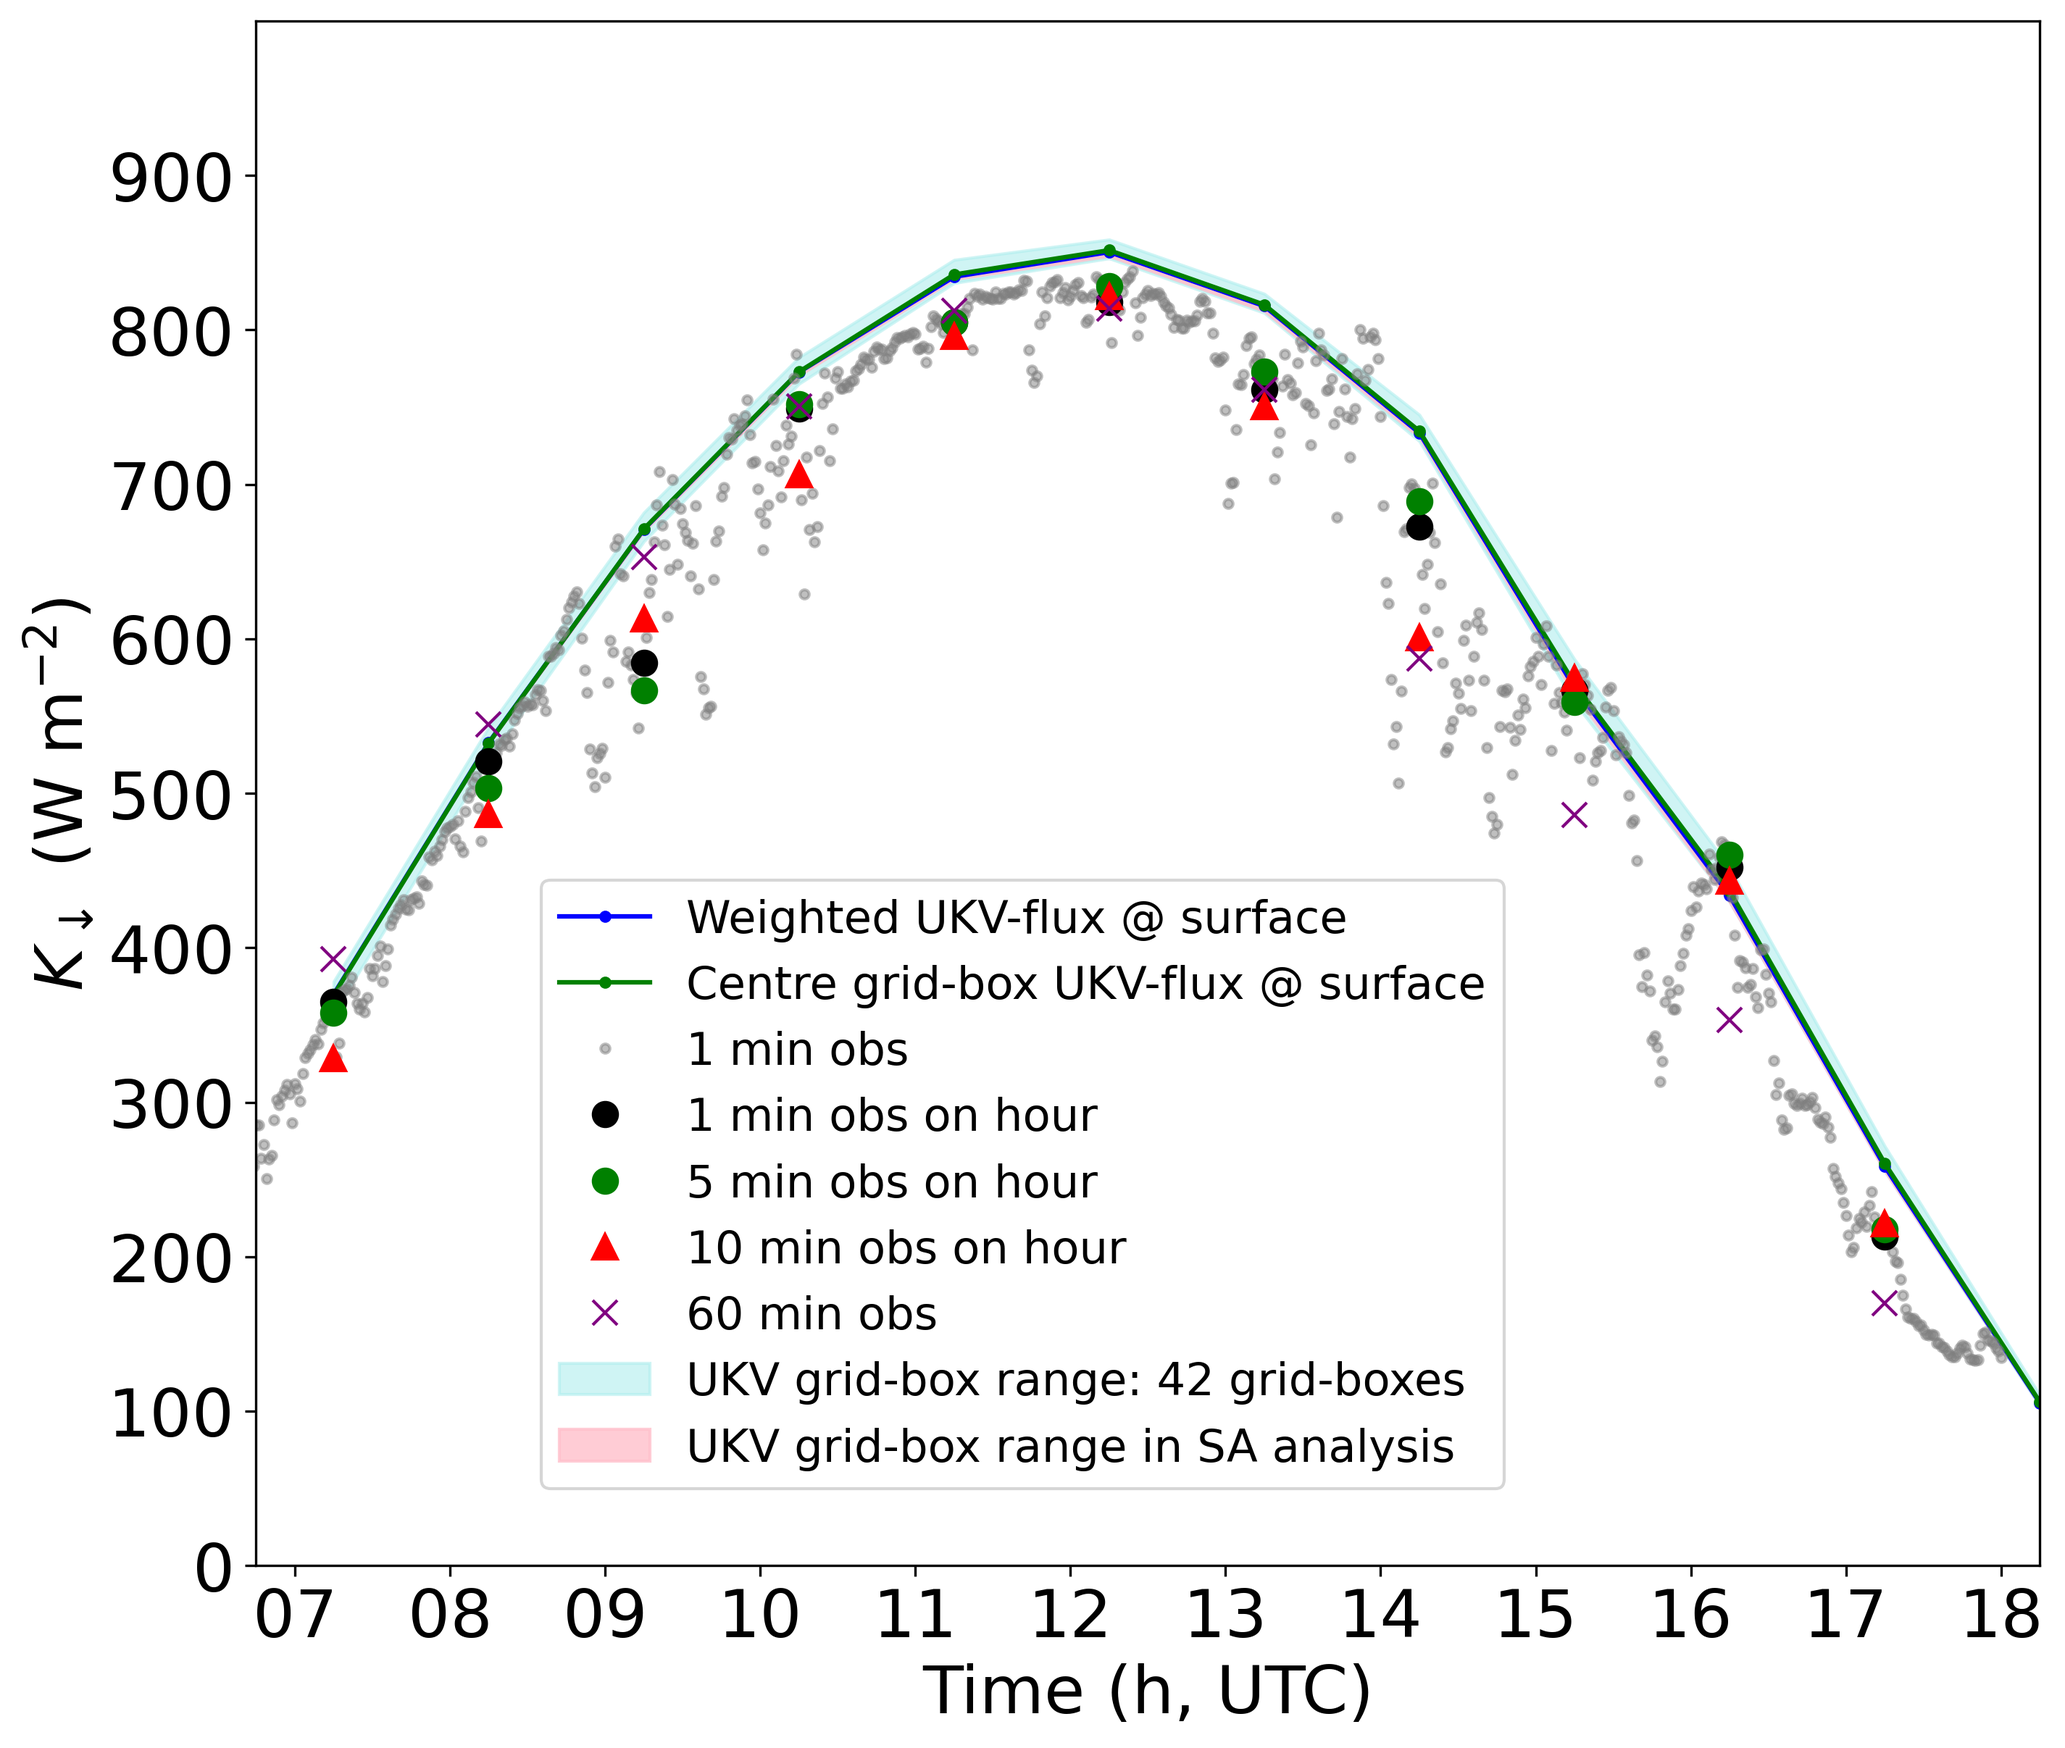
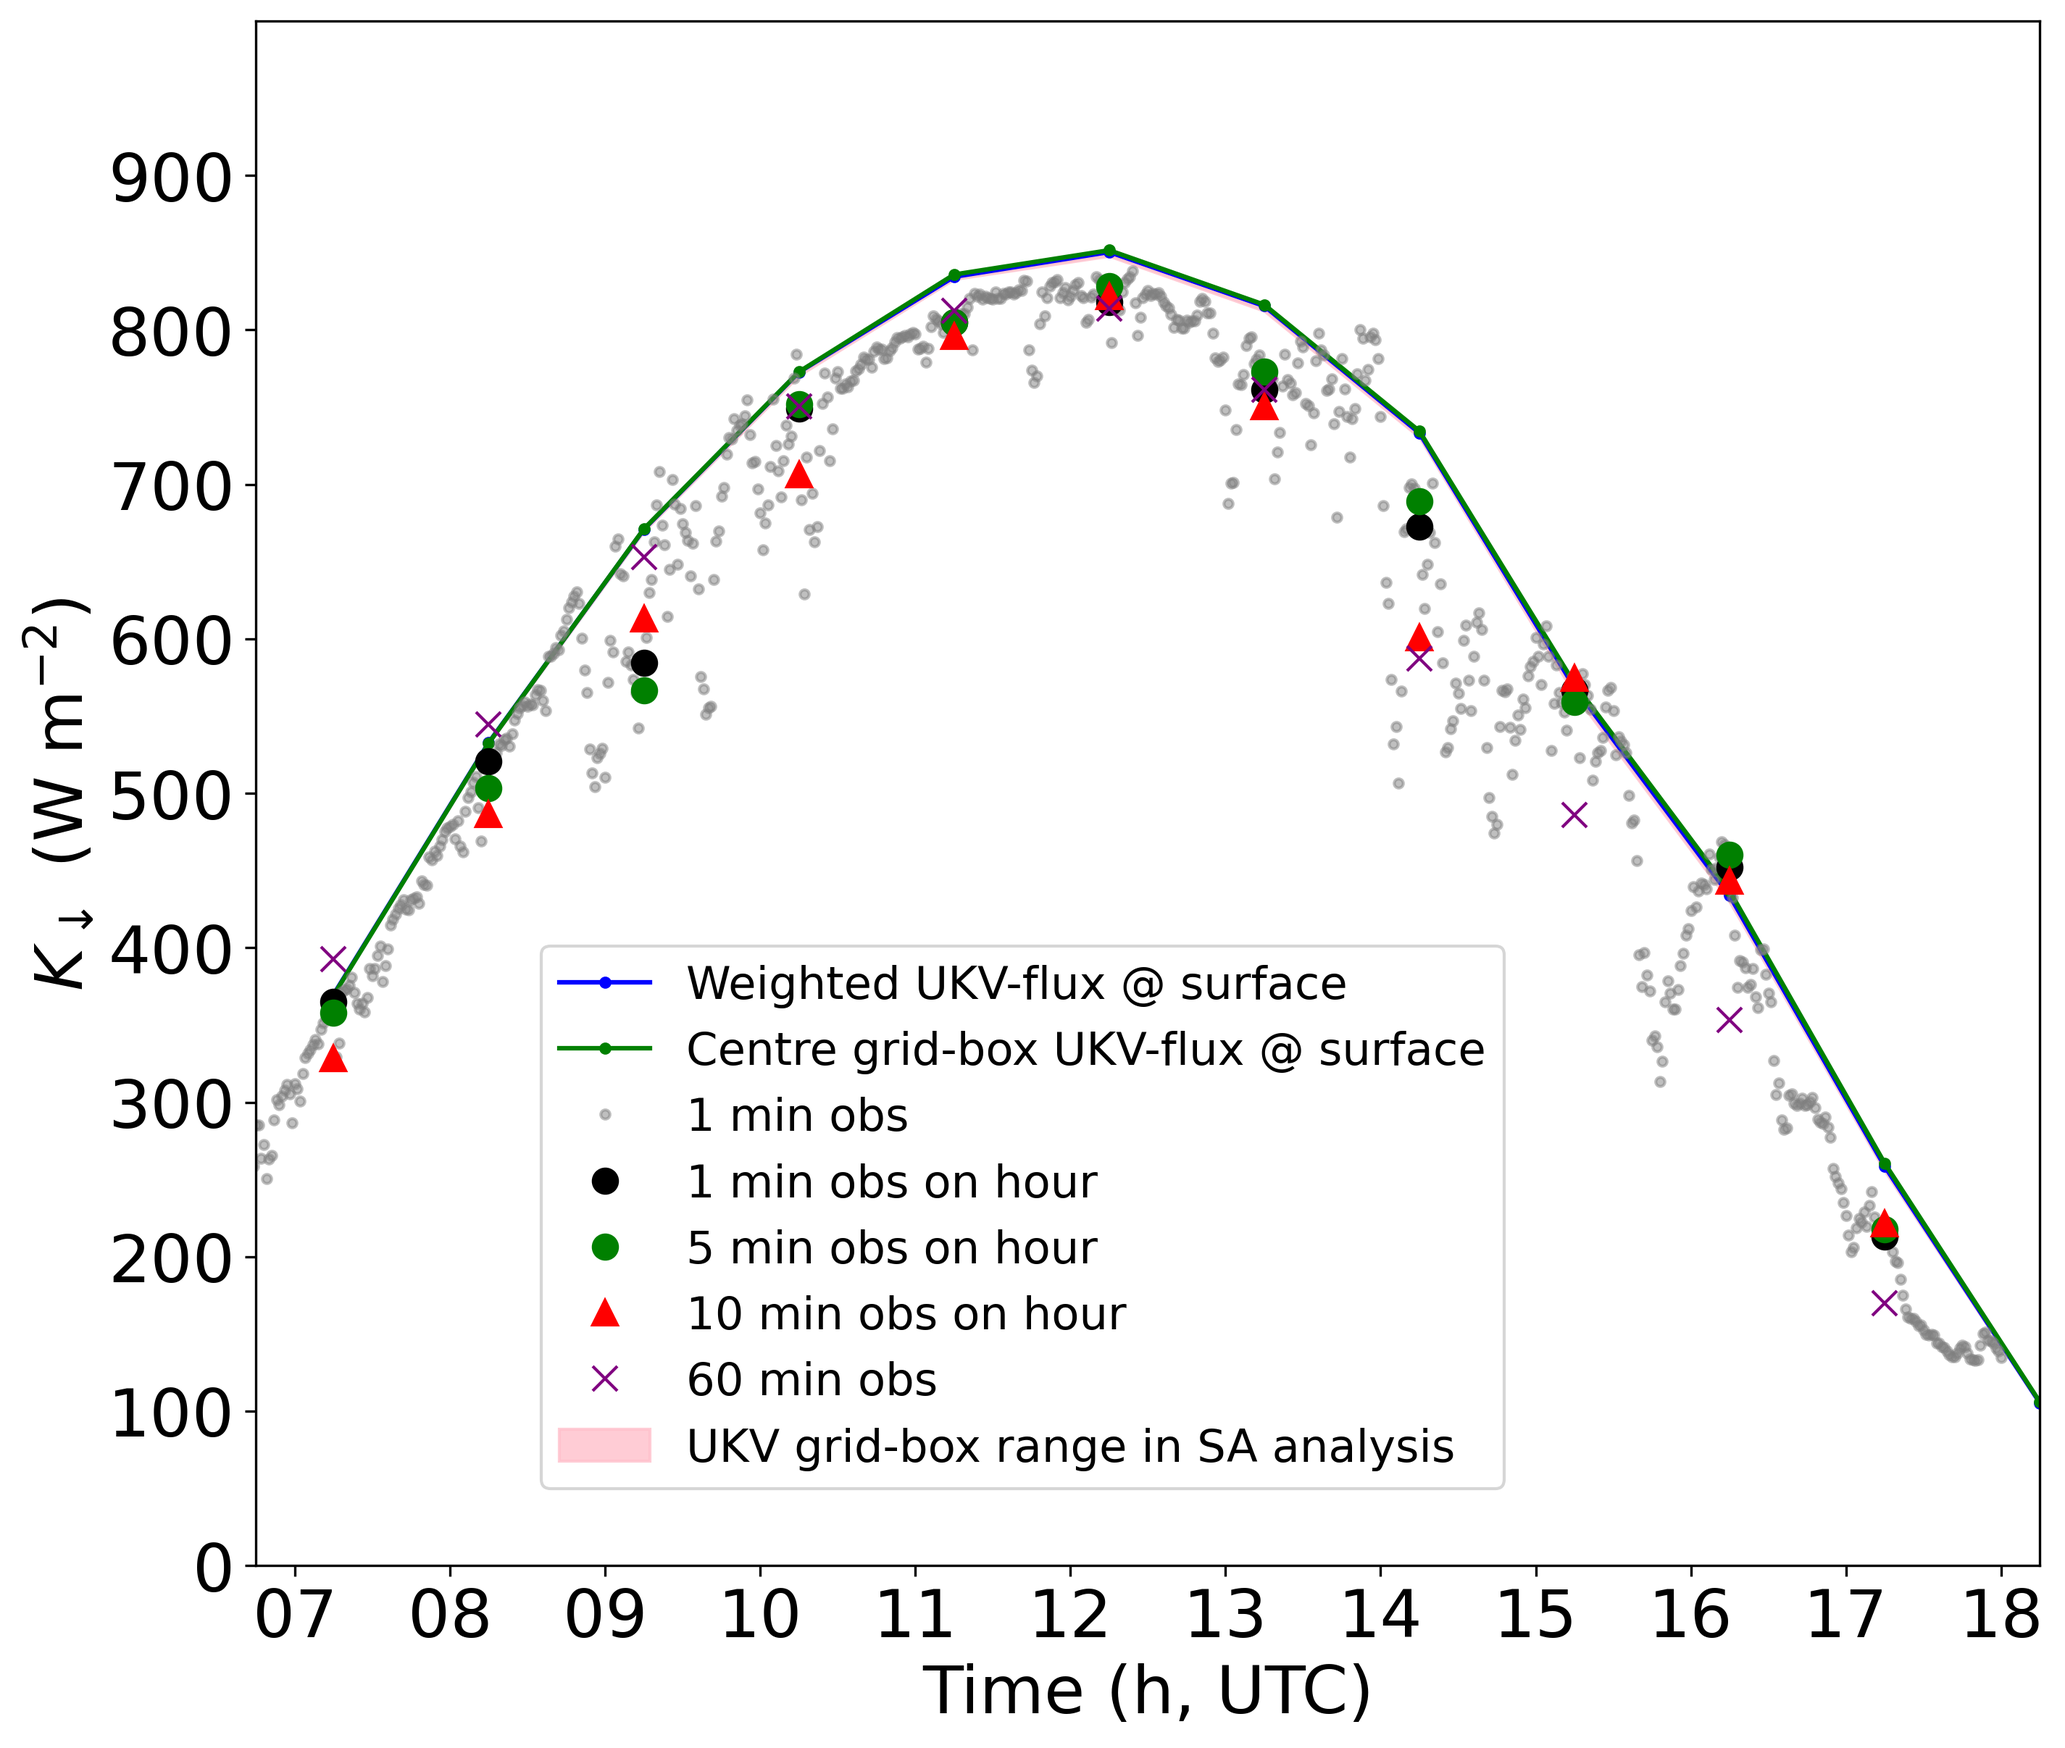
remove 42 grid shading from kdown

diff --git a/scint_plots/detailed_time_series/main_kdown_detailed_time_series.py b/scint_plots/detailed_time_series/main_kdown_detailed_time_series.py
@@ -3,11 +3,14 @@ from scint_flux import look_up
 
 from model_eval_tools.retrieve_UKV import retrieve_ukv_vars
 
+from scint_plots.tools.preprocessed_UKV_csvs import UKV_lookup
 from scint_plots.detailed_time_series import detailed_time_series_funs
 
+import numpy as np
+
 scint_path = 12
-DOY_list = [2016126, 2016123]
-var_list = ['kdown']
+DOY_list = [2016123, 2016126]
+var_list = ['kdown', 'z_0']
 time_res = '1min_sa10min'
 
 pair_id = look_up.scint_path_numbers[scint_path]
@@ -25,11 +28,14 @@ for DOY in DOY_list:
 
     # get model kdown
     # retrieve UKV data
-    ukv_data_dict_kdown = retrieve_ukv_vars.retrieve_UKV(scint_path, DOY, DOY, variable='kdown')
-    UKV_df_kdown_all_grids = retrieve_ukv_vars.UKV_df(ukv_data_dict_kdown['all_grids_kdown_dict'],
-                                                          time_key='model_grid_time_kdown_all',
-                                                          val_key='model_grid_vals_kdown_all')
 
+    run_details = {'variable': 'kdown',
+                   'run_time': '21Z',
+                   'scint_path': scint_path,
+                   'grid_number': UKV_lookup.scint_UKV_grid_choices[pair_id][1],
+                   'target_height': np.nan}
+
+    ukv_data_dict_kdown = retrieve_ukv_vars.retrieve_UKV(run_choices=run_details, DOYstart=DOY, DOYstop=DOY)
     UKV_df_kdown = retrieve_ukv_vars.UKV_df(ukv_data_dict_kdown)
 
     DOY_dict[DOY] = {'obs': df, 'UKV_kdown': UKV_df_kdown}
@@ -38,7 +44,6 @@ for DOY in DOY_list:
                                                    ukv_df=UKV_df_kdown,
                                                    model_site_dict=ukv_data_dict_kdown['model_site_dict'],
                                                    variable='kdown',
-                                                   ukv_df_all_grids=UKV_df_kdown_all_grids,
                                                    model_site_dict_all=ukv_data_dict_kdown['all_grids_kdown_dict'][
                                                        'model_site_dict_all'])
 
